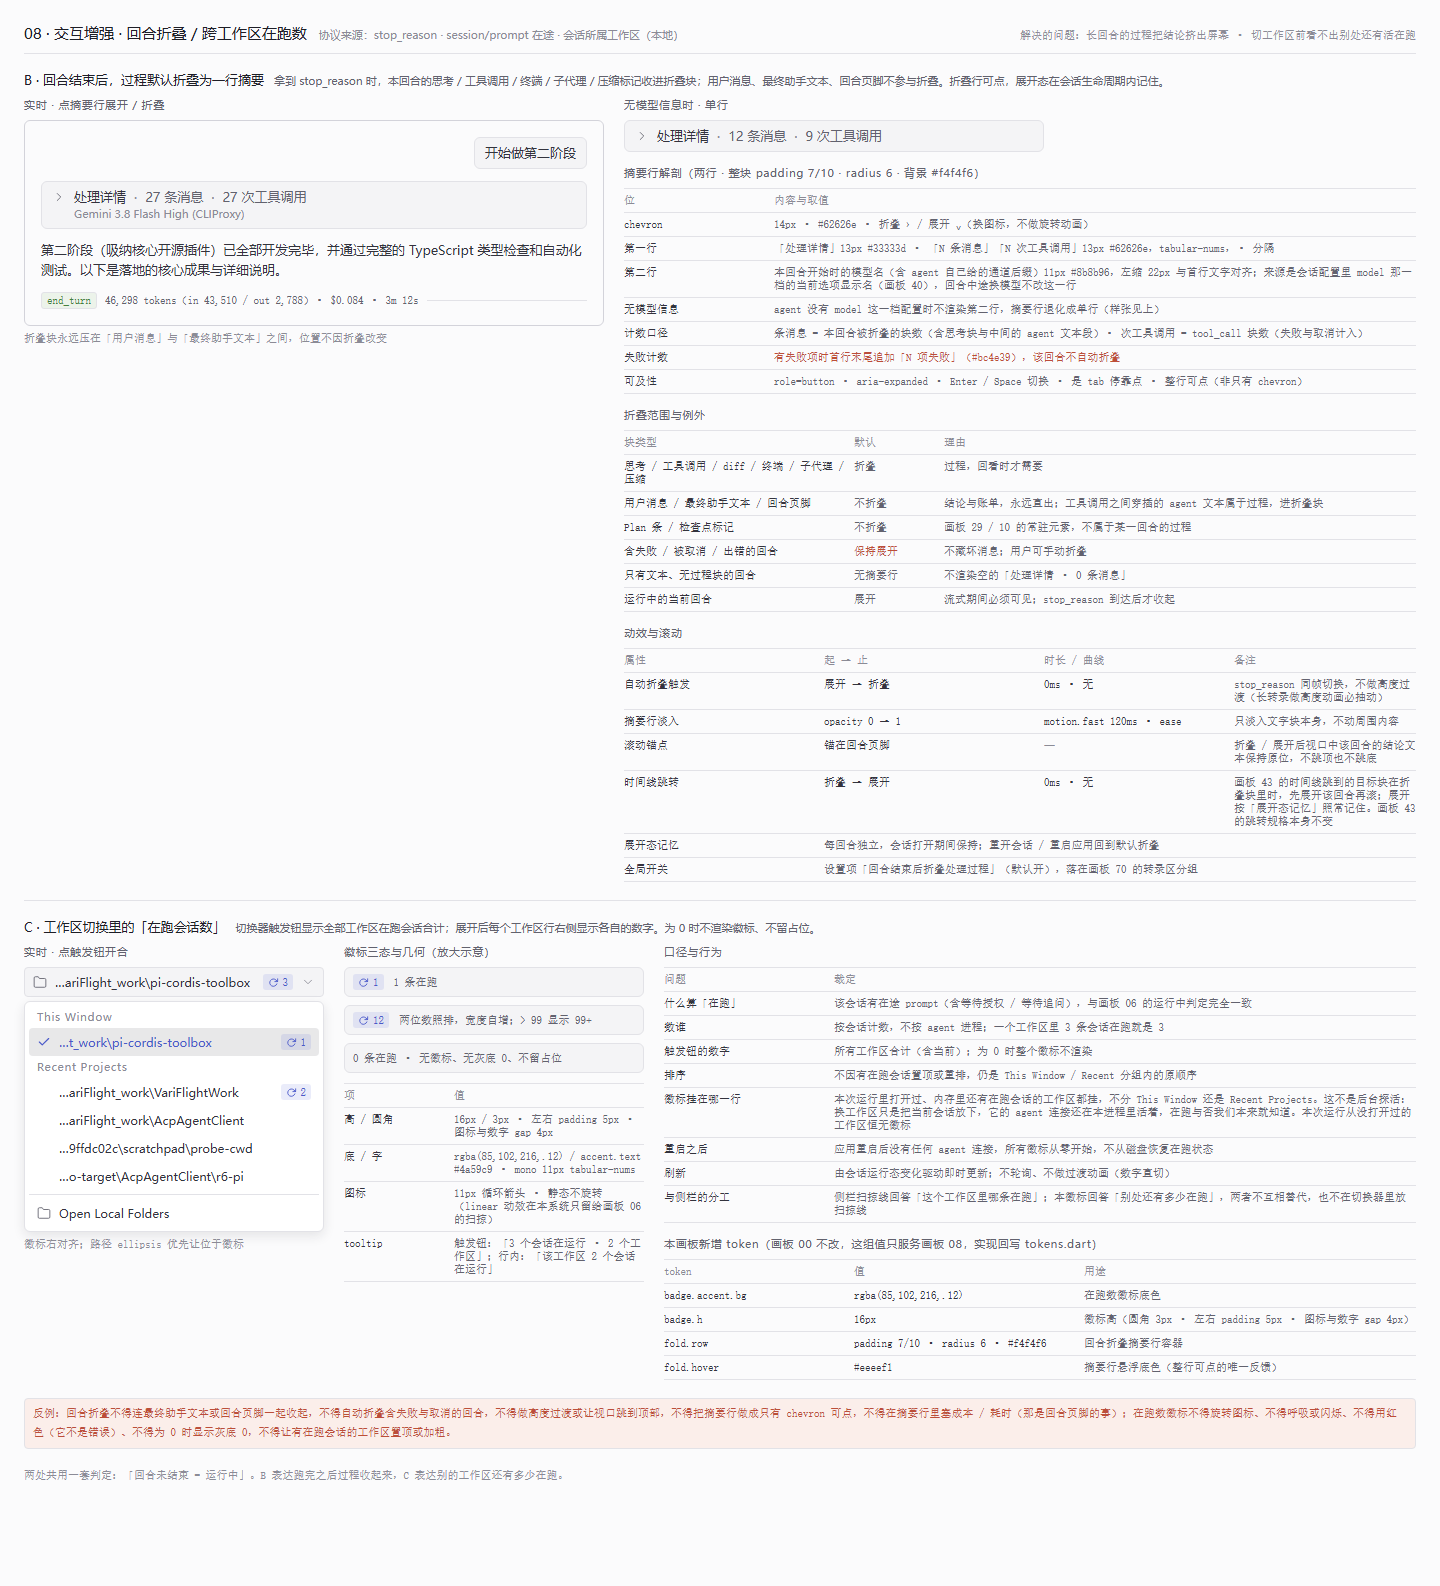
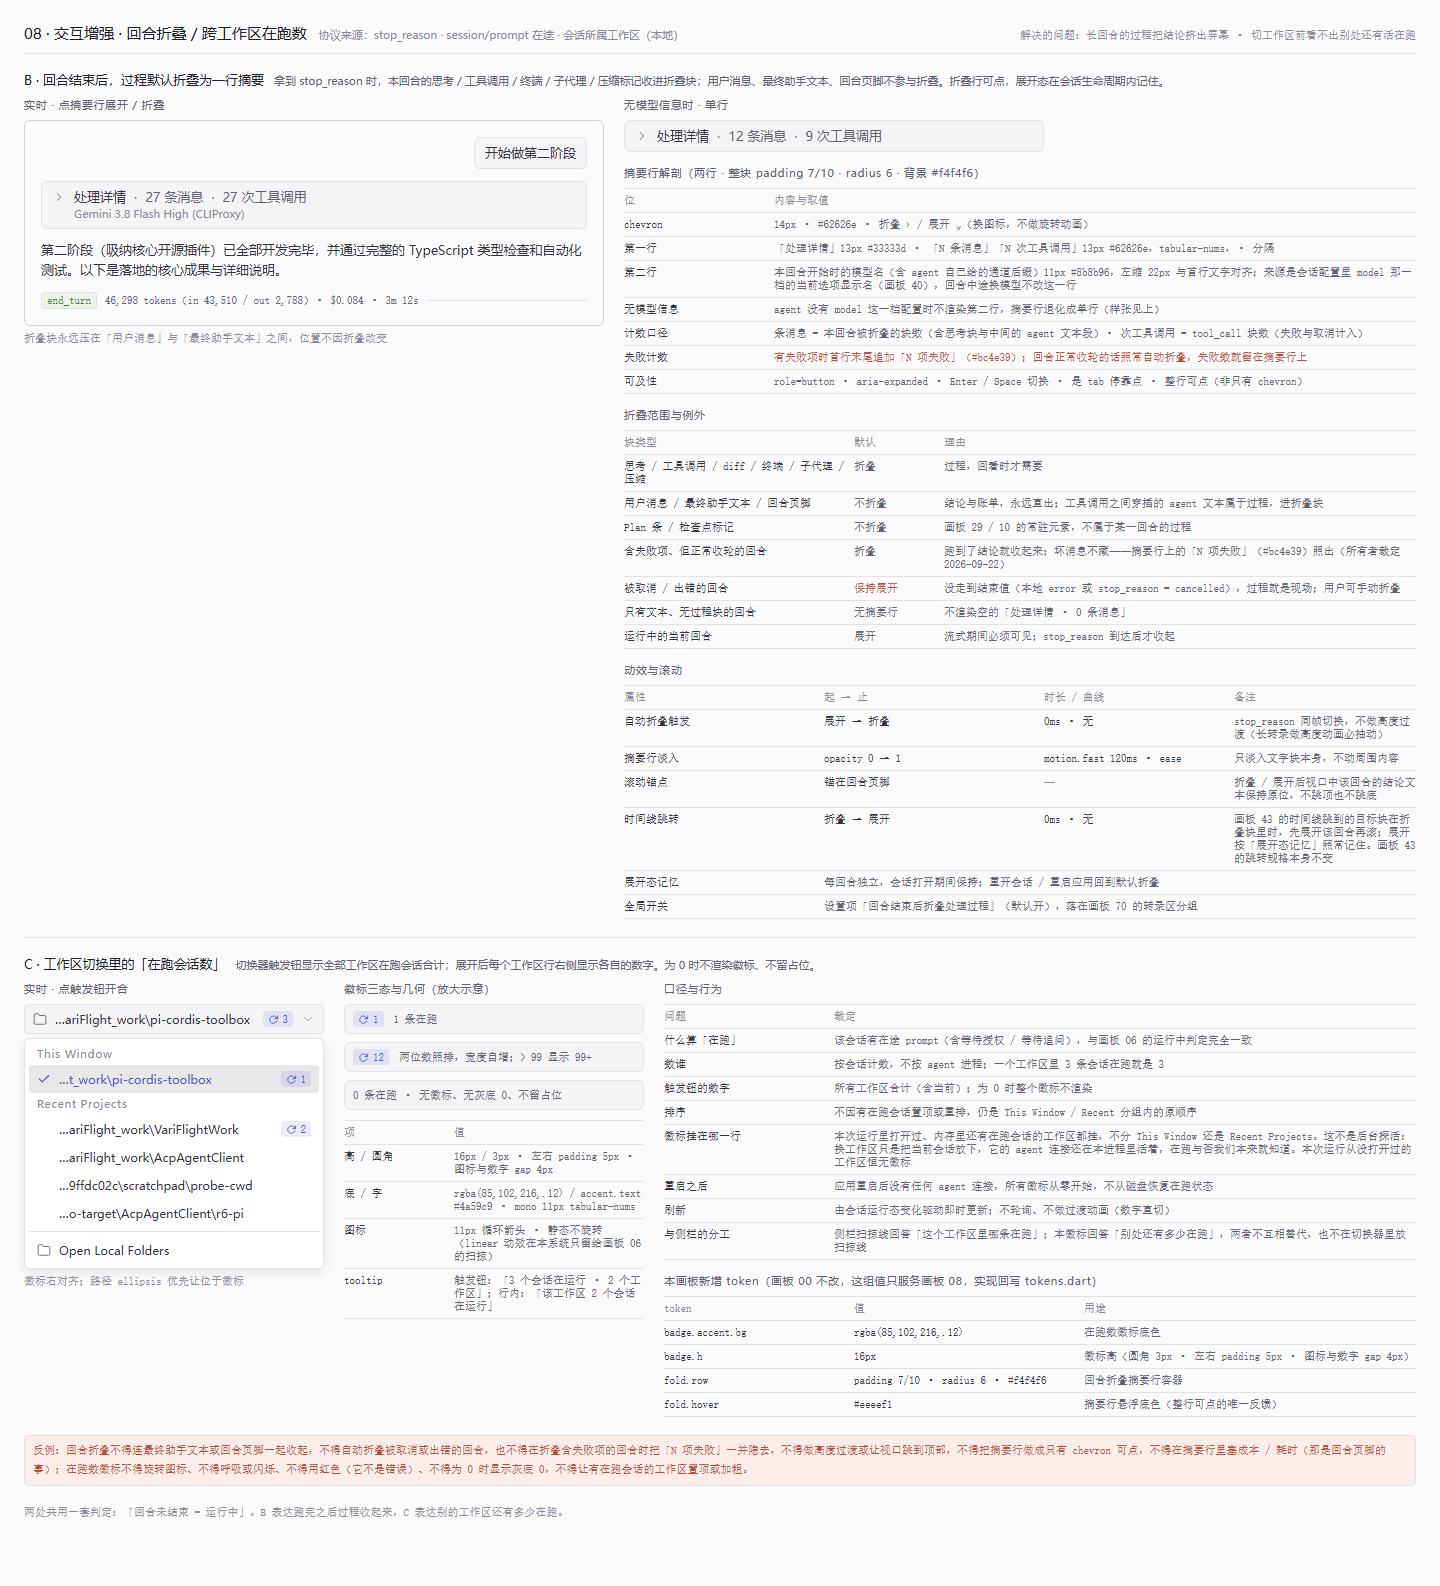
画板 08：含失败工具调用但正常收轮的回合改为照常自动折叠
所有者裁定 2026-09-22：只有「没走到结束值」的回合才保持展开——还在跑、
被取消（本地标的工具卡或 stop_reason = cancelled）、本地 error。失败不再
拦住自动折叠；坏消息不藏，改由摘要行上的「N 项失败」红字承担（折叠态与
展开态两态都渲染）。

- lib/projection/turn_fold.dart：autoCollapsible 去掉 failures == 0
- 设计稿先行入库：画板 08 的「失败计数」行、「折叠范围与例外」表（原来
  一行拆成「含失败项但正常收轮 → 折叠」与「被取消 / 出错 → 保持展开」
  两行）与底部反例行；画板 70 与设置页那句说明同步改字（两边一字不差）；
  两张 PNG 用 render-design.ps1 重出
- 单测：失败那条由反向改成正向，另补「失败 + 取消同时在仍不自动折叠」
  与「被取消的回合保持展开」两条边界；组名改为「自动折叠的判定」

验证：flutter test 403 项全绿、validate.ps1 -Quick 全 PASS。
未审查（所有者指定）。

Changed region(s): [[0.0, 0.3398, 1.0, 0.9578], [0.7188, 0.2163, 0.8125, 0.2472], [0.8438, 0.2163, 0.9062, 0.2472]]

diff --git a/design/round-design/08-interaction-upgrades.dc.html b/design/round-design/08-interaction-upgrades.dc.html
@@ -111,7 +111,7 @@
             <div style="padding:5px 8px 5px 0;color:#33333d;border-bottom:1px solid #e2e2e7">计数口径</div>
             <div style="padding:5px 0;color:#62626e;border-bottom:1px solid #e2e2e7">条消息 = 本回合被折叠的块数（含思考块与中间的 agent 文本段）· 次工具调用 = tool_call 块数（失败与取消计入）</div>
             <div style="padding:5px 8px 5px 0;color:#33333d;border-bottom:1px solid #e2e2e7">失败计数</div>
-            <div style="padding:5px 0;color:#bc4e39;border-bottom:1px solid #e2e2e7">有失败项时首行末尾追加「N 项失败」（#bc4e39），该回合不自动折叠</div>
+            <div style="padding:5px 0;color:#bc4e39;border-bottom:1px solid #e2e2e7">有失败项时首行末尾追加「N 项失败」（#bc4e39）；回合正常收轮的话照常自动折叠，失败数就留在摘要行上</div>
             <div style="padding:5px 8px 5px 0;color:#33333d;border-bottom:1px solid #e2e2e7">可及性</div>
             <div style="padding:5px 0;color:#62626e;border-bottom:1px solid #e2e2e7">role=button · aria-expanded · Enter / Space 切换 · 是 tab 停靠点 · 整行可点（非只有 chevron）</div>
           </div>
@@ -132,9 +132,12 @@
             <div style="padding:5px 8px 5px 0;color:#33333d;border-bottom:1px solid #e2e2e7">Plan 条 / 检查点标记</div>
             <div style="padding:5px 8px 5px 0;color:#62626e;border-bottom:1px solid #e2e2e7">不折叠</div>
             <div style="padding:5px 0;color:#62626e;border-bottom:1px solid #e2e2e7">画板 29 / 10 的常驻元素，不属于某一回合的过程</div>
-            <div style="padding:5px 8px 5px 0;color:#33333d;border-bottom:1px solid #e2e2e7">含失败 / 被取消 / 出错的回合</div>
+            <div style="padding:5px 8px 5px 0;color:#33333d;border-bottom:1px solid #e2e2e7">含失败项、但正常收轮的回合</div>
+            <div style="padding:5px 8px 5px 0;color:#62626e;border-bottom:1px solid #e2e2e7">折叠</div>
+            <div style="padding:5px 0;color:#62626e;border-bottom:1px solid #e2e2e7">跑到了结论就收起来；坏消息不藏——摘要行上的「N 项失败」（#bc4e39）照出（所有者裁定 2026-09-22）</div>
+            <div style="padding:5px 8px 5px 0;color:#33333d;border-bottom:1px solid #e2e2e7">被取消 / 出错的回合</div>
             <div style="padding:5px 8px 5px 0;color:#bc4e39;border-bottom:1px solid #e2e2e7">保持展开</div>
-            <div style="padding:5px 0;color:#62626e;border-bottom:1px solid #e2e2e7">不藏坏消息；用户可手动折叠</div>
+            <div style="padding:5px 0;color:#62626e;border-bottom:1px solid #e2e2e7">没走到结束值（本地 error 或 stop_reason = cancelled），过程就是现场；用户可手动折叠</div>
             <div style="padding:5px 8px 5px 0;color:#33333d;border-bottom:1px solid #e2e2e7">只有文本、无过程块的回合</div>
             <div style="padding:5px 8px 5px 0;color:#62626e;border-bottom:1px solid #e2e2e7">无摘要行</div>
             <div style="padding:5px 0;color:#62626e;border-bottom:1px solid #e2e2e7">不渲染空的「处理详情 · 0 条消息」</div>
@@ -311,7 +314,7 @@
     </div>
   </div>
 
-  <div style="background:#fbeeea;border:1px solid #e2e2e7;border-radius:4px;padding:6px 8px;font-family:'Geist Mono',ui-monospace,monospace;font-size:11px;color:#bc4e39;line-height:1.7">反例：回合折叠不得连最终助手文本或回合页脚一起收起，不得自动折叠含失败与取消的回合，不得做高度过渡或让视口跳到顶部，不得把摘要行做成只有 chevron 可点，不得在摘要行里塞成本 / 耗时（那是回合页脚的事）；在跑数徽标不得旋转图标、不得呼吸或闪烁、不得用红色（它不是错误）、不得为 0 时显示灰底 0，不得让有在跑会话的工作区置顶或加粗。</div>
+  <div style="background:#fbeeea;border:1px solid #e2e2e7;border-radius:4px;padding:6px 8px;font-family:'Geist Mono',ui-monospace,monospace;font-size:11px;color:#bc4e39;line-height:1.7">反例：回合折叠不得连最终助手文本或回合页脚一起收起，不得自动折叠被取消或出错的回合，也不得在折叠含失败项的回合时把「N 项失败」一并隐去，不得做高度过渡或让视口跳到顶部，不得把摘要行做成只有 chevron 可点，不得在摘要行里塞成本 / 耗时（那是回合页脚的事）；在跑数徽标不得旋转图标、不得呼吸或闪烁、不得用红色（它不是错误）、不得为 0 时显示灰底 0，不得让有在跑会话的工作区置顶或加粗。</div>
 
   <div style="font-family:'Geist Mono',ui-monospace,monospace;font-size:11px;color:#8b8b96;line-height:1.6">两处共用一套判定：「回合未结束 = 运行中」。B 表达跑完之后过程收起来，C 表达别的工作区还有多少在跑。</div>
 </div>

diff --git a/lib/projection/turn_fold.dart b/lib/projection/turn_fold.dart
@@ -3,6 +3,8 @@
 //
 // 折叠范围照画板 08 的「折叠范围与例外」表：
 // - **折叠**：思考 / 工具调用（含 diff / 终端 / 子代理）/ 压缩标记，外加**工具调用之间穿插的 agent 文本**。
+// - **整轮不自动折叠**：还在跑 / 被取消 / 本地出错的回合（见 [TurnFold.autoCollapsible]）。含失败工具调用
+//   但正常收轮的回合**照常折叠**，失败数留在摘要行上（所有者裁定 2026-09-22）。
 // - **不折叠**：用户消息、该回合**最后一段连续的 agent 文本**、回合页脚（页脚不是条目，由列表另外出行）、
 //   Plan 条与检查点标记（画板 29 / 10 的常驻元素，不属于某一回合的过程）。
 // - **偏离（画板未写）**：权限卡与 elicitation 卡不折叠。画板的两列都没列到它们；挂起的那张必须看得见，
@@ -35,6 +37,7 @@ class TurnFold {
   final int toolCalls;
 
   /// 「N 项失败」：折叠块里 `failed` 的工具调用数。取消**不**算失败（它有自己的一列）。
+  /// 只喂摘要行上那一段红字，**不再参与** [autoCollapsible]（所有者裁定 2026-09-22）。
   final int failures;
 
   /// 折叠块里被取消的工具调用数。只用于判「不自动折叠」，不出现在摘要行上。
@@ -49,10 +52,14 @@ class TurnFold {
   /// 折叠块的第一条：摘要行插在它前面。
   TranscriptEntry get anchor => folded.first;
 
-  /// 这一轮可不可以**自动**折叠。含失败 / 被取消 / 出错的回合保持展开（画板：不藏坏消息；用户仍可手动折叠）。
-  /// `max_tokens` / `refusal` 不在此列：它们是协议给的正常结束值，画板 31 的页脚本来就会标出来，而页脚不参与折叠。
+  /// 这一轮可不可以**自动**折叠。只有**没走到结束值**的回合保持展开：还在跑、被取消（本地标的工具卡，或
+  /// `stop_reason == 'cancelled'`）、本地出错（[TurnEntry.error]）——那几种情况下过程就是现场；用户仍可手动折叠。
+  ///
+  /// **含失败工具调用、但正常收轮的回合照常折叠**（所有者裁定 2026-09-22，画板 08 已同步）：跑到了结论就收起来，
+  /// 坏消息不藏——摘要行上的「N 项失败」照出，不必把整段过程摊开。
+  /// `max_tokens` / `refusal` 同样照常折叠：它们是协议给的正常结束值，画板 31 的页脚本来就会标出来，而页脚不参与折叠。
   bool get autoCollapsible =>
-      !turn.isRunning && failures == 0 && cancelled == 0 && turn.error == null && turn.stopReason != 'cancelled';
+      !turn.isRunning && cancelled == 0 && turn.error == null && turn.stopReason != 'cancelled';
 
   /// 本回合的条目属不属于折叠块（列表折叠态据此跳过）。
   bool contains(TranscriptEntry e) => _folded.contains(e);

diff --git a/test/projection/turn_fold_test.dart b/test/projection/turn_fold_test.dart
@@ -123,21 +123,7 @@ void main() {
     });
   });
 
-  group('不自动折叠的回合', () {
-    test('有失败的工具调用 -> autoCollapsible 为假，且摘要行给出失败数', () {
-      final s = newStore();
-      startTurn(s, '跑一下');
-      toolCall(s, 'tc-1');
-      toolCall(s, 'tc-2', status: 'failed');
-      agent(s, '出错了。');
-      s.endTurn(stopReason: 'end_turn');
-
-      final fold = foldOf(s)!;
-      expect(fold.failures, 1);
-      expect(fold.toolCalls, 2, reason: '失败的也计进「次工具调用」');
-      expect(fold.autoCollapsible, isFalse);
-    });
-
+  group('自动折叠的判定', () {
     test('stopReason = cancelled -> 不自动折叠', () {
       final s = newStore();
       startTurn(s, '跑一下');
@@ -152,6 +138,34 @@ void main() {
       toolCall(s, 'tc-1');
       s.endTurn(error: '连接断了');
       expect(foldOf(s)!.autoCollapsible, isFalse);
+    });
+
+    test('有失败的工具调用但正常收轮 -> 照常自动折叠，失败数留在摘要行上（所有者裁定 2026-09-22）', () {
+      final s = newStore();
+      startTurn(s, '跑一下');
+      toolCall(s, 'tc-1');
+      toolCall(s, 'tc-2', status: 'failed');
+      agent(s, '出错了。');
+      s.endTurn(stopReason: 'end_turn');
+
+      final fold = foldOf(s)!;
+      expect(fold.failures, 1);
+      expect(fold.toolCalls, 2, reason: '失败的也计进「次工具调用」');
+      expect(fold.autoCollapsible, isTrue, reason: '跑到了结论就收起来；失败只体现在摘要行的「N 项失败」上');
+    });
+
+    test('失败 + 取消同时在 -> 仍不自动折叠（取消那一条独立拦住）', () {
+      final s = newStore();
+      startTurn(s, '跑一下');
+      toolCall(s, 'tc-1', status: 'failed');
+      toolCall(s, 'tc-2', status: 'in_progress');
+      s.cancel();
+      s.endTurn(stopReason: 'end_turn');
+
+      final fold = foldOf(s)!;
+      expect(fold.failures, 1);
+      expect(fold.cancelled, 1);
+      expect(fold.autoCollapsible, isFalse);
     });
 
     test('max_tokens / refusal 照常自动折叠（坏消息在回合页脚，页脚不参与折叠）', () {

diff --git a/test/ui/turn_fold_test.dart b/test/ui/turn_fold_test.dart
@@ -129,7 +129,7 @@ void main() {
       expect(find.descendant(of: row, matching: find.byType(Text)), findsNWidgets(2), reason: '「处理详情」+ 计数');
     });
 
-    testWidgets('有失败项时首行末尾追加「N 项失败」，且不自动折叠', (tester) async {
+    testWidgets('有失败项时首行末尾追加「N 项失败」，回合正常收轮则照常折叠', (tester) async {
       final s = newStore();
       startTurn(s, '跑一下');
       toolCall(s, 'tc-1');
@@ -138,8 +138,20 @@ void main() {
       s.endTurn(stopReason: 'end_turn');
 
       await pump(tester, _list(s));
-      expect(find.text('1 项失败'), findsOneWidget);
-      expect(find.byType(ToolCallCard), findsNWidgets(2), reason: '含失败的回合保持展开');
+      expect(find.text('1 项失败'), findsOneWidget, reason: '折起来了也要看得见失败数（所有者裁定 2026-09-22）');
+      expect(find.byType(ToolCallCard), findsNothing, reason: '跑到了结论，过程收进摘要行');
+      expect(find.text('出错了。'), findsOneWidget, reason: '最终助手文本不参与折叠');
+    });
+
+    testWidgets('被取消的回合保持展开（摘要行在，但过程不收起）', (tester) async {
+      final s = newStore();
+      startTurn(s, '跑一下');
+      toolCall(s, 'tc-1');
+      s.endTurn(stopReason: 'cancelled');
+
+      await pump(tester, _list(s));
+      expect(find.byType(TurnFoldRow), findsOneWidget);
+      expect(find.byType(ToolCallCard), findsOneWidget, reason: '没走到结束值，过程就是现场');
     });
 
     testWidgets('可及性：button + expanded，整行可点', (tester) async {

diff --git a/design/round-design/70-settings.dc.html b/design/round-design/70-settings.dc.html
@@ -79,7 +79,7 @@
           <div style="display:flex;align-items:baseline;gap:10px"><span style="font-size:13px;font-weight:500;color:#1e1e26">转录</span></div>
           <div style="border:1px solid #e2e2e7;border-radius:6px;background:#fbfbfc;overflow:hidden">
             <div style="display:flex;align-items:center;gap:12px;padding:10px 12px;">
-              <span style="flex:1;min-width:0"><span style="font-size:13px;font-weight:500;color:#1e1e26">回合结束后折叠处理过程</span><span style="display:block;font-size:11px;color:#8b8b96;margin-top:2px">拿到 stop_reason 时，把本回合的思考、工具调用、终端、子代理、压缩收进一行摘要；含失败与取消的回合不自动折叠。</span></span>
+              <span style="flex:1;min-width:0"><span style="font-size:13px;font-weight:500;color:#1e1e26">回合结束后折叠处理过程</span><span style="display:block;font-size:11px;color:#8b8b96;margin-top:2px">拿到 stop_reason 时，把本回合的思考、工具调用、终端、子代理、压缩收进一行摘要；被取消与出错的回合不自动折叠，含失败项的照折、摘要行上标出失败数。</span></span>
               <span style="flex:none;width:28px;height:16px;border-radius:8px;background:#5566d8;display:flex;align-items:center;padding:2px;box-sizing:border-box;justify-content:flex-end"><span style="width:12px;height:12px;border-radius:50%;background:#ffffff"></span></span>
             </div>
           </div>

diff --git a/lib/gallery/boards/shell_boards.dart b/lib/gallery/boards/shell_boards.dart
@@ -420,7 +420,7 @@ final List<GalleryBoard> shellBoards = <GalleryBoard>[
             child: _left(SizedBox(width: _foldWidth, child: TurnFoldRow(fold: _foldOf(twoLine), collapsed: true, forceHover: true)))),
         BoardSection('B · 无模型信息时 · 单行',
             child: _left(SizedBox(width: _foldWidth, child: TurnFoldRow(fold: _foldOf(oneLine), collapsed: true)))),
-        BoardSection('B · 有失败项（首行末尾追加「N 项失败」，该回合不自动折叠）',
+        BoardSection('B · 有失败项（首行末尾追加「N 项失败」，回合正常收轮时照常自动折叠）',
             child: _left(SizedBox(width: _foldWidth, child: TurnFoldRow(fold: _foldOf(failed), collapsed: true)))),
         BoardSection('B · 展开态标题行（无容器无底色，chevron 换成向下 + 一行 11px 摘要）',
             child: _left(SizedBox(width: _foldWidth, child: TurnFoldRow(fold: _foldOf(twoLine), collapsed: false)))),

diff --git a/lib/ui/settings/settings_page.dart b/lib/ui/settings/settings_page.dart
@@ -184,7 +184,7 @@ class SettingsPage extends StatelessWidget {
                       Text('回合结束后折叠处理过程', style: CardText.strong),
                       const SizedBox(height: t.Spacing.s4),
                       Text(
-                        '拿到 stop_reason 时，把本回合的思考、工具调用、终端、子代理、压缩收进一行摘要；含失败与取消的回合不自动折叠。',
+                        '拿到 stop_reason 时，把本回合的思考、工具调用、终端、子代理、压缩收进一行摘要；被取消与出错的回合不自动折叠，含失败项的照折、摘要行上标出失败数。',
                         style: t.TextStyles.meta,
                       ),
                     ],
